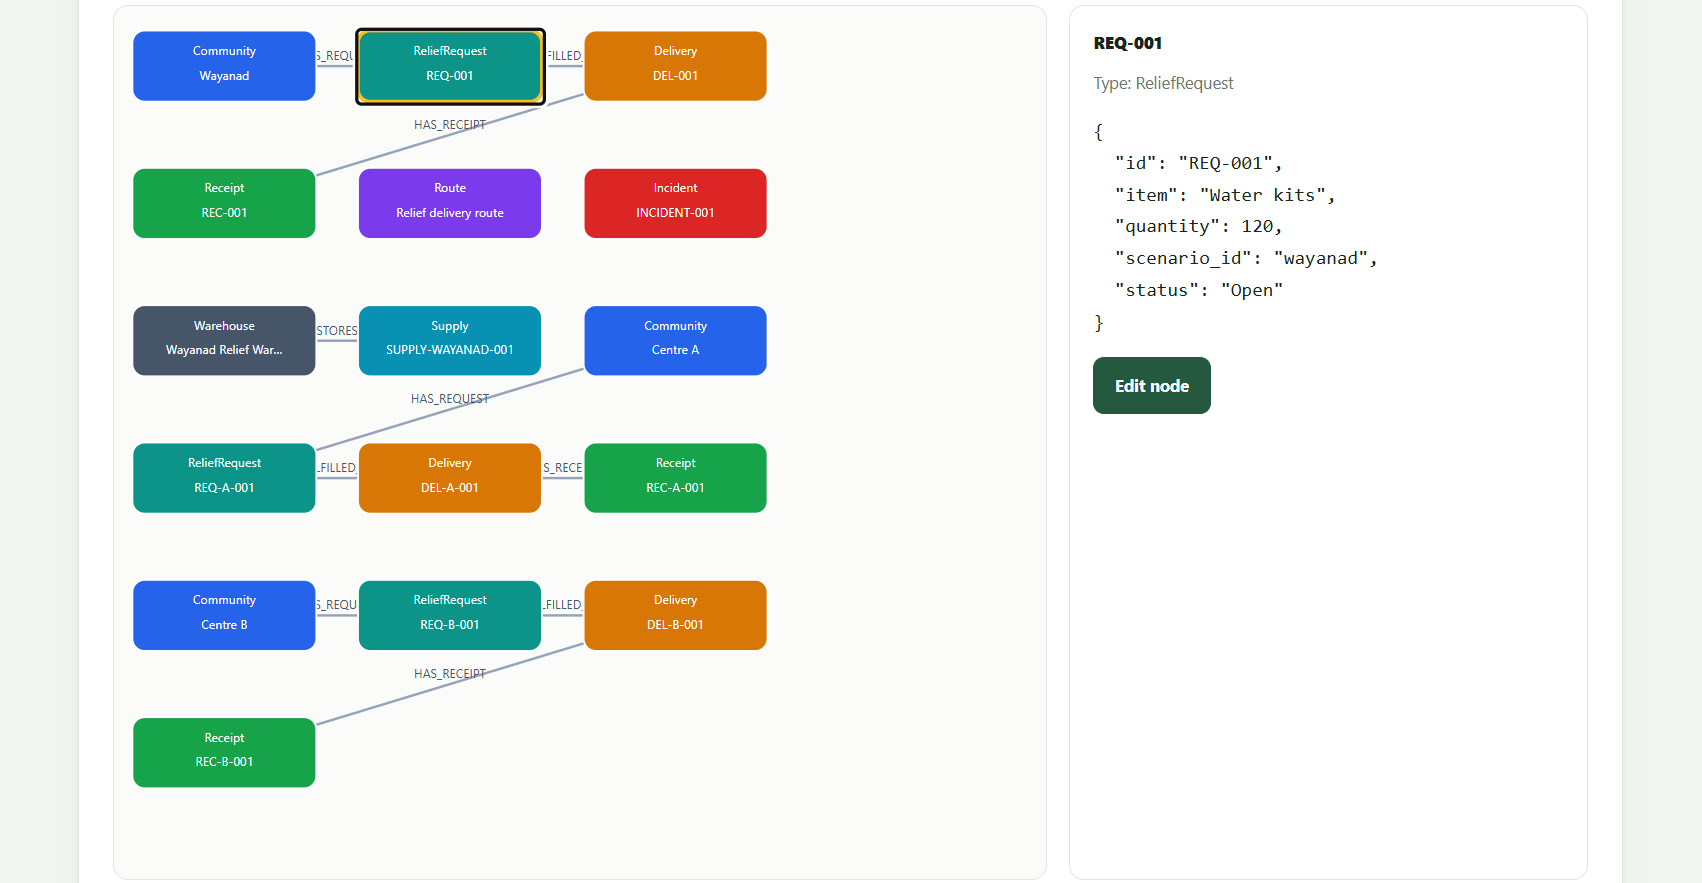
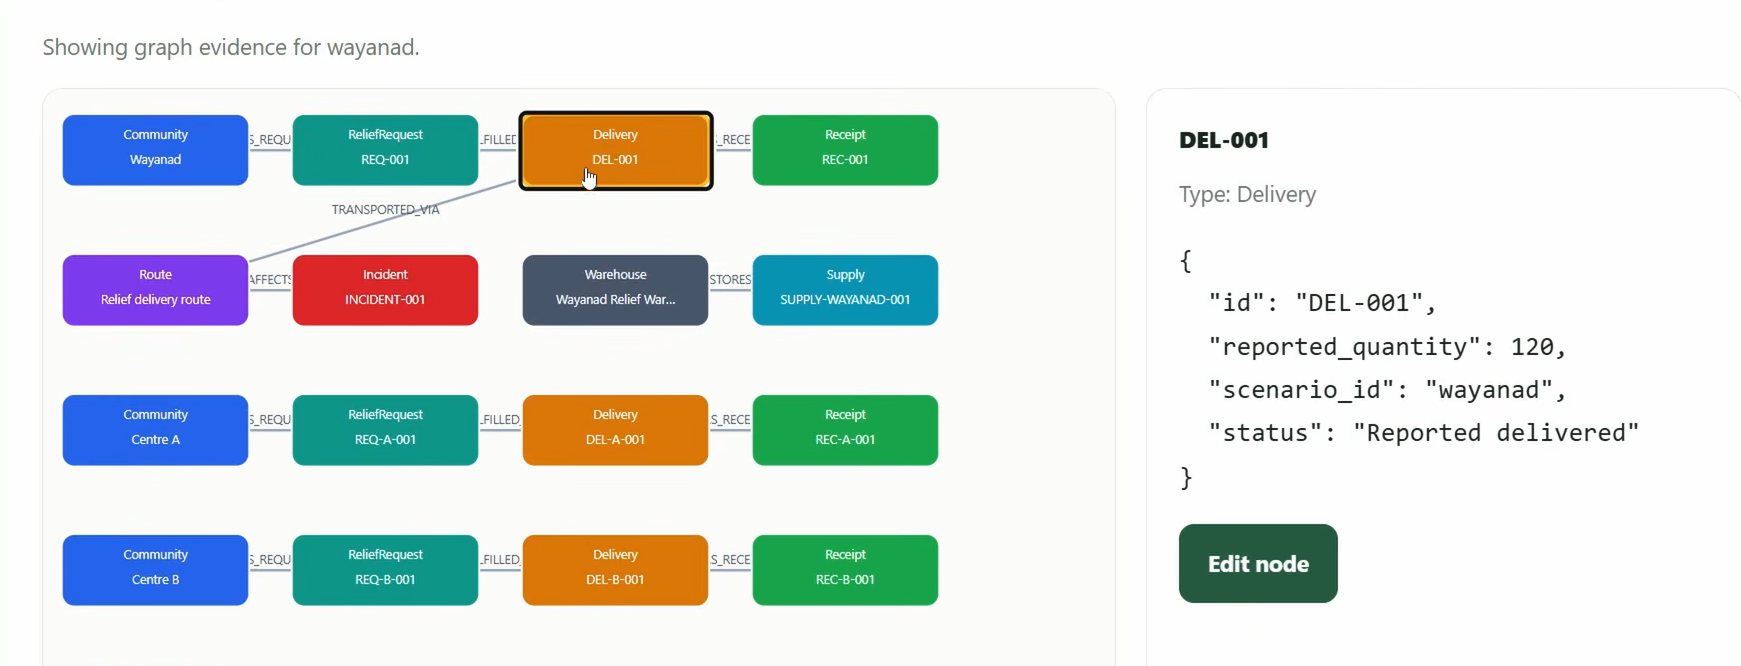
added screenshot and update readme

diff --git a/README.md b/README.md
@@ -22,7 +22,6 @@ Watch me explain the project, its motivation, graph-based investigation approach
 
 **[▶ Watch the AidTrace Project Explanation on YouTube](https://youtu.be/Er1qoUYxt-c)**
 
-
 ## Technology Stack
 
 - **Backend:** Python, Flask
@@ -49,17 +48,17 @@ AidTrace represents relief-distribution information as a graph, connecting relat
 
 ### Core node categories
 
-| Node label | Purpose |
-|---|---|
-| `Community` | Represents communities affected by a disaster or relief-distribution centres. |
-| `ReliefRequest` | Records requested relief resources, quantities, and request status. |
-| `Delivery` | Represents delivery records, including reported quantities and delivery status. |
-| `Receipt` | Records receipt evidence, including confirmed quantities and confirmation status. |
-| `Route` | Represents delivery routes and their associated status. |
+| Node label                    | Purpose                                                                                                                         |
+| ----------------------------- | ------------------------------------------------------------------------------------------------------------------------------- |
+| `Community`                   | Represents communities affected by a disaster or relief-distribution centres.                                                   |
+| `ReliefRequest`               | Records requested relief resources, quantities, and request status.                                                             |
+| `Delivery`                    | Represents delivery records, including reported quantities and delivery status.                                                 |
+| `Receipt`                     | Records receipt evidence, including confirmed quantities and confirmation status.                                               |
+| `Route`                       | Represents delivery routes and their associated status.                                                                         |
 | `Incident` / `IncidentReport` | Represents reported incidents relevant to an investigation. The seed script assigns both labels to the Wayanad incident record. |
-| `Warehouse` | Represents relief-resource storage and distribution locations. |
-| `Supply` | Records relief resources and their quantities associated with a warehouse. |
-| `AuditLog` | Represents an audit record displayed in the graph explorer when a supported change is recorded. |
+| `Warehouse`                   | Represents relief-resource storage and distribution locations.                                                                  |
+| `Supply`                      | Records relief resources and their quantities associated with a warehouse.                                                      |
+| `AuditLog`                    | Represents an audit record displayed in the graph explorer when a supported change is recorded.                                 |
 
 ### Graph relationship overview
 
@@ -75,12 +74,13 @@ flowchart TD
     W["Warehouse"] -->|STORES| S["Supply"]
 ```
 
-### Example: Wayanad scenario graph
+### Example: Wayanad Scenario Graph
 
-The screenshot below shows an example of the graph explorer displaying the Wayanad demonstration scenario. It illustrates the records and connections visible in the website, including an audit log showing a relief-request quantity change from 120 to 140.
+The screenshot below shows AidTrace's graph explorer displaying the Wayanad demonstration scenario. It illustrates connected communities, relief requests, deliveries, receipts, routes, incident reports, warehouses, and supplies. Selecting a node reveals its stored properties, allowing users to inspect records and trace related evidence across the graph.
+
+The displayed records are synthetic demonstration data used to illustrate how AidTrace connects relief-distribution information for investigation.
 
 ![AidTrace graph explorer showing the Wayanad demonstration scenario](docs/wayanad-graph.png)
-
 
 ### How the graph supports investigations
 
